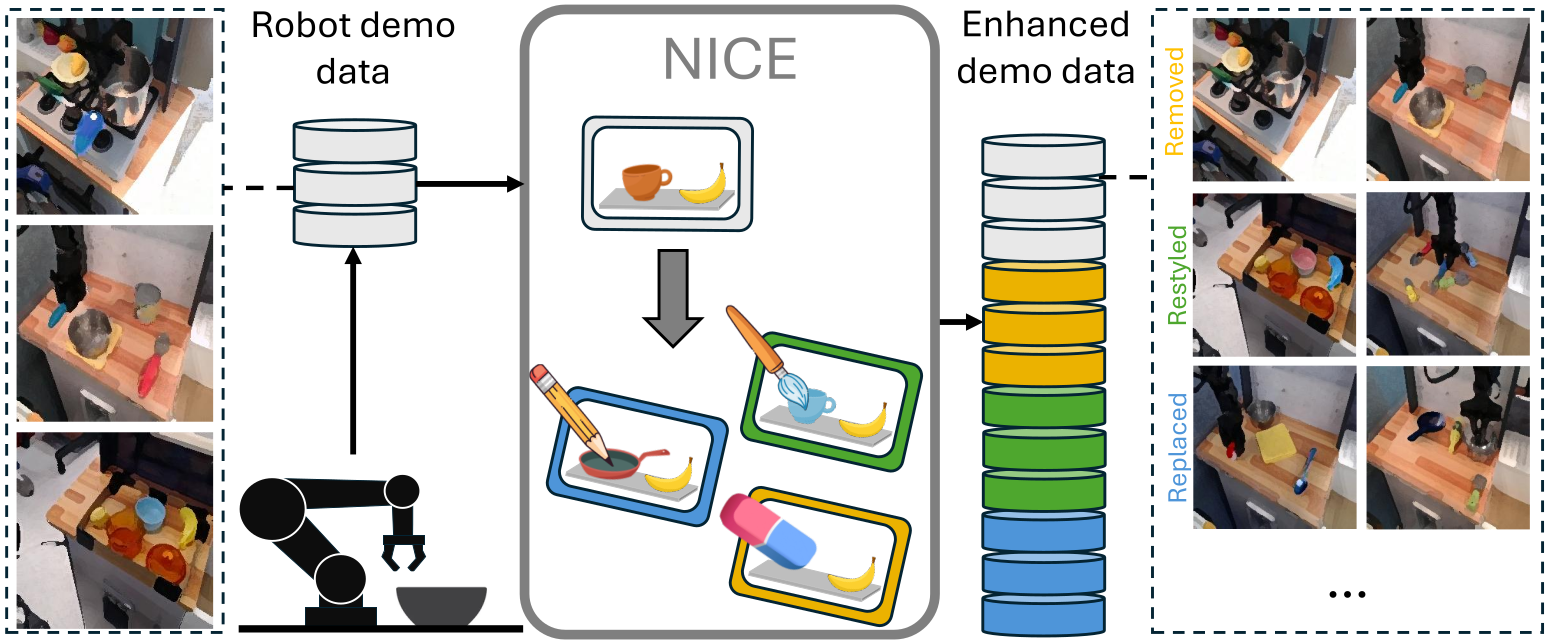
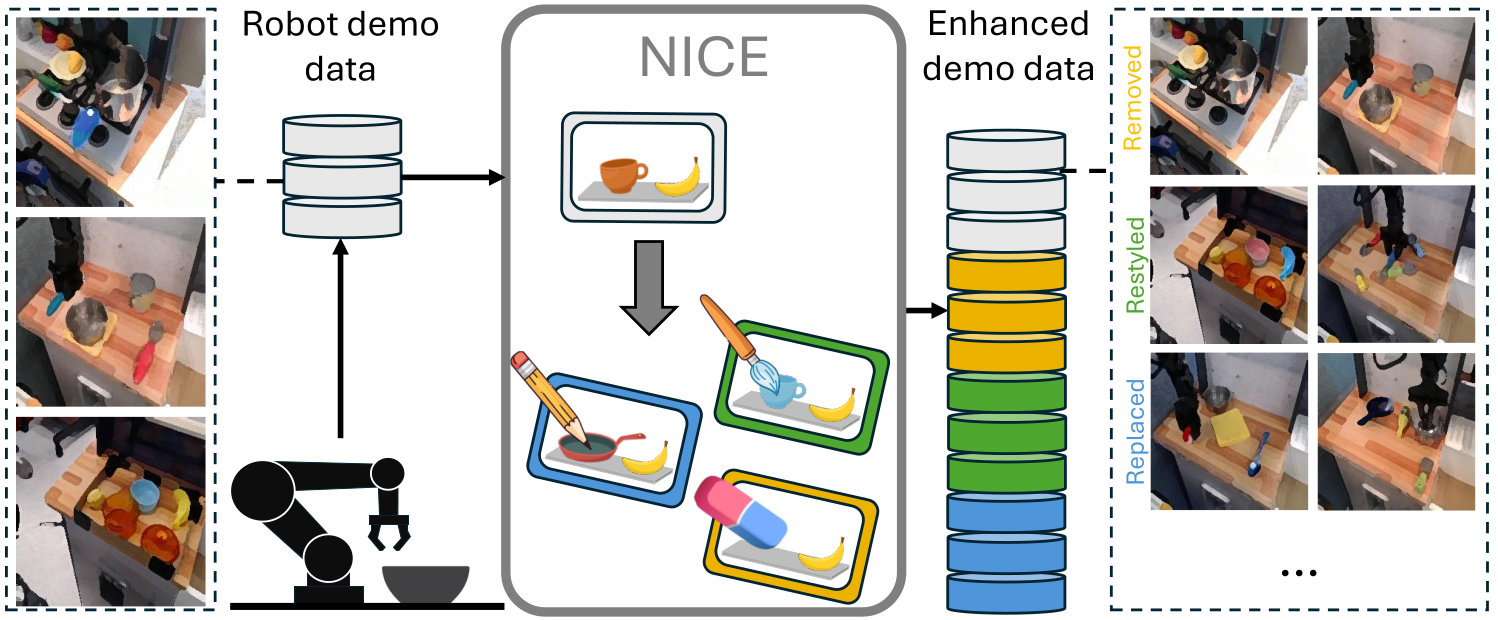
Expand project page: full figure set, real captions, results tables
Replace the single method/results images with the paper's own figure
sequence, each carrying its caption from the LaTeX source. Add an
Approach section and quantitative results tables transcribed from the
papers' result tables.

diff --git a/docs/index.html b/docs/index.html
@@ -40,6 +40,17 @@ h1{font-size:clamp(28px,4.4vw,42px);line-height:1.18;margin:0 0 10px;letter-spac
 .authors .me{font-weight:700}
 .affil{color:var(--muted);font-size:14.5px;margin:6px 0 0}
 .notes{color:var(--muted);font-size:13px;margin:8px 0 0}
+figure.fig{margin:0 0 34px}
+figure.fig:last-child{margin-bottom:0}
+.tbl-wrap{overflow-x:auto;margin:0 0 10px}
+table{border-collapse:collapse;width:100%;font-size:14.5px}
+th,td{padding:9px 14px;text-align:right;border-bottom:1px solid var(--rule);white-space:nowrap}
+th:first-child,td:first-child{text-align:left}
+thead th{font-weight:600;color:var(--muted);font-size:12.5px;letter-spacing:.05em;
+  text-transform:uppercase;border-bottom:1.5px solid var(--fg)}
+tbody tr:last-child td{border-bottom:1.5px solid var(--fg)}
+.tbl-title{font-weight:600;font-size:15px;margin:0 0 12px}
+.tbl-note{color:var(--muted);font-size:13.5px;margin:8px 0 30px}
 .tldr{background:var(--tldr);border-left:3px solid var(--accent);border-radius:0 8px 8px 0;
   padding:18px 22px;margin:0;font-size:17.5px;line-height:1.6}
 ul.pts{margin:0;padding-left:22px}
@@ -89,7 +100,8 @@ a{color:var(--accent)}
     <a class="btn" href="https://github.com/SajjadPSavoji/NICE-Scene-Surgery">Code</a>
     <a class="btn" href="#bibtex">BibTeX</a>
   </div>
-  <figure class="teaser"><img src="static/teaser.png" alt="NICE teaser"></figure>
+  <figure class="teaser"><img src="static/teaser.png" alt="NICE overview">
+    <figcaption>Overview of the NICE framework. NICE takes existing robot demonstration data and performs replacement, restyling, or removal operations on distractor objects.</figcaption></figure>
 </div></header>
 <main class="wrap">
   <section>
@@ -105,19 +117,14 @@ a{color:var(--accent)}
     <ul class="pts"><li>A scene-level editing framework performing three operations — object replacement, restyling, and removal of non-target objects — using image generative models together with large language models.</li><li>Edits preserve spatial relationships and never obstruct target objects, keeping action labels valid, so no new action generation or teleoperation is required.</li><li>Realism validated against real-world counterparts on both background consistency and overall generation quality.</li><li>Demonstrated gains in visual affordance prediction across varying levels of clutter.</li><li>Real-world validation of policy robustness and safety across tasks and distractor counts.</li></ul>
   </section>
   <section>
-    <h2>Method</h2>
-    <figure>
-      <img src="static/method.png" alt="Method overview">
-      <figcaption>Overview of the proposed approach.</figcaption>
-    </figure>
+    <h2>Approach</h2>
+    <figure class="fig"><img src="static/approach1.png" alt="The NICE pipeline: object parsing, distractor selection, and"><figcaption>The NICE pipeline: object parsing, distractor selection, and generative scene editing, with action labels preserved throughout.</figcaption></figure><figure class="fig"><img src="static/approach2.png" alt="The object parsing step: object detection with Florence-2 an"><figcaption>The object parsing step: object detection with Florence-2 and segmentation used to isolate target and distractor objects.</figcaption></figure>
   </section>
   <section>
     <h2>Results</h2>
-    <figure>
-      <img src="static/results.png" alt="Results">
-      <figcaption>Qualitative results and comparison against baselines.</figcaption>
-    </figure>
-    <ul class="pts res" style="margin-top:26px"><li>Generates scenes realistic enough to significantly improve robot perception and downstream manipulation.</li><li>Improves policy robustness in environments populated with varying numbers of distractors.</li><li>Requires <strong>no additional robot data collection</strong> and minimal human involvement.</li></ul>
+    <ul class="pts res" style="margin-bottom:34px"><li>Generates scenes realistic enough to significantly improve robot perception and downstream manipulation.</li><li>Improves policy robustness in environments populated with varying numbers of distractors.</li><li>Requires <strong>no additional robot data collection</strong> and minimal human involvement.</li></ul>
+    
+    <figure class="fig"><img src="static/result1.png" alt="Data enhancement on the Bridge dataset. In each pair, left i"><figcaption>Data enhancement on the Bridge dataset. In each pair, left is the original image and right is the edited one.</figcaption></figure><figure class="fig"><img src="static/result2.png" alt="Real-world replication of the editing operations, used to va"><figcaption>Real-world replication of the editing operations, used to validate the realism of NICE-generated data.</figcaption></figure><figure class="fig"><img src="static/result3.png" alt="FID scores for the three enhancement strategies on real-worl"><figcaption>FID scores for the three enhancement strategies on real-world images.</figcaption></figure><figure class="fig"><img src="static/result4.png" alt="(Left) Performance of the manipulation policy finetuned on t"><figcaption>(Left) Performance of the manipulation policy finetuned on three data configurations. (Right) Experiment scenes with varying numbers of distractors.</figcaption></figure>
   </section>
   <section id="bibtex">
     <h2>BibTeX</h2>

diff --git a/README.md b/README.md
@@ -56,7 +56,7 @@ pip install -r requirements.txt
 
 ## Results
 
-<img src="docs/static/results.png" width="100%">
+<img src="docs/static/result1.png" width="100%">
 
 - Generates scenes realistic enough to significantly improve robot perception and downstream manipulation.
 - Improves policy robustness in environments populated with varying numbers of distractors.
